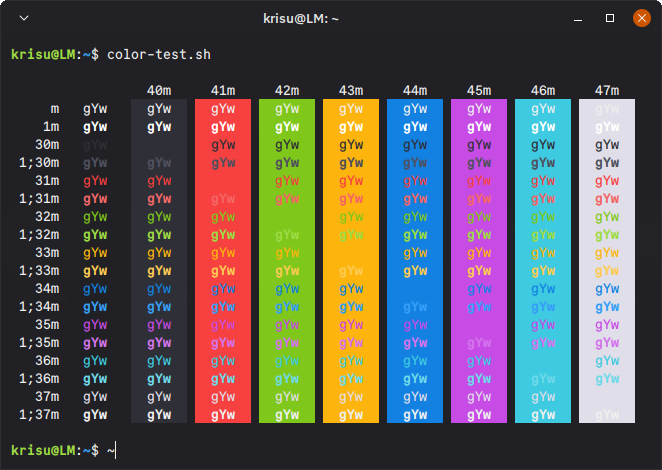
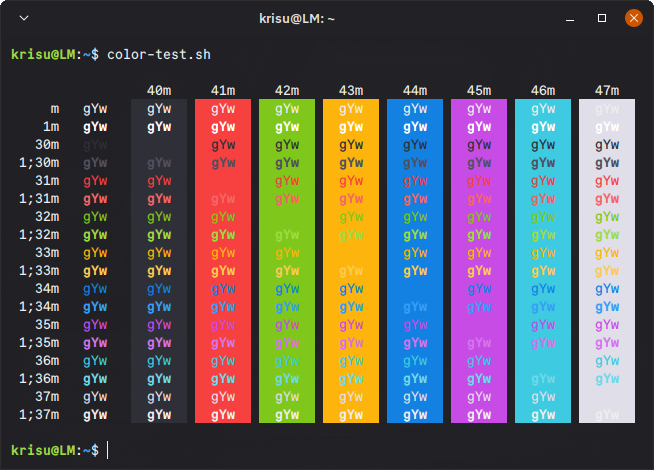
Add color codes

diff --git a/color-codes.md b/color-codes.md
@@ -1,0 +1,69 @@
+# Tashoku — Color codes
+
+## Default palette
+
+| Color name        | Hex         | RGB             | HSL             |
+| ----------------- | ----------- | --------------- | --------------- |
+| Black, regular    | #2f2f37     | 47, 47, 55      | 240, 8%, 20%    |
+| Black, bright     | #50505e     | 80, 80, 94      | 240, 8%, 34%    |
+| Red, regular      | #f74040     | 247, 64, 64     | 0, 92%, 61%     |
+| Red, bright       | #f46666     | 244, 102, 102   | 0, 87%, 68%     |
+| Green, regular    | #7fc71a     | 127, 199, 26    | 85, 77%, 44%    |
+| Green, bright     | #9cdb43     | 156, 219, 67    | 85, 68%, 56%    |
+| Yellow, regular   | #fdb50d     | 253, 181, 13    | 42, 98%, 52%    |
+| Yellow, bright    | #fdca53     | 253, 202, 83    | 42, 98%, 66%    |
+| Blue, regular     | #1281e2     | 18, 129, 226    | 208, 85%, 48%   |
+| Blue, bright      | #369ef8     | 54, 158, 248    | 208, 93%, 59%   |
+| Magenta, regular  | #c74ce6     | 199, 76, 230    | 288, 75%, 60%   |
+| Magenta, bright   | #d474ec     | 212, 116, 236   | 288, 76%, 69%   |
+| Cyan, regular     | #3ecae0     | 62, 202, 224    | 188, 72%, 56%   |
+| Cyan, bright      | #6dd9e9     | 109, 217, 233   | 188, 74%, 67%   |
+| White, regular    | #e0dee8     | 224, 222, 232   | 252, 18%, 89%   |
+| White, bright     | #eeeeee     | 238, 238, 238   | 0, 0%, 93%      |
+
+## Expanded palette
+
+| Color name        | Hex         | RGB             | HSL             |
+| ----------------- | ----------- | --------------- | --------------- |
+| Black, 400        | #2f2f37     | 47, 47, 55      | 240, 8%, 20%    |
+| Black, 300        | #50505e     | 80, 80, 94      | 240, 8%, 34%    |
+| Black, 200        | #7c7c86     | 124, 124, 134   | 240, 4%, 51%    |
+| Black, 100        | #a8a8af     | 168, 168, 175   | 240, 4%, 67%    |
+| Red, 400          | #f74040     | 247, 64, 64     | 0, 92%, 61%     |
+| Red, 300          | #f46666     | 244, 102, 102   | 0, 87%, 68%     |
+| Red, 200          | #f78c8c     | 247, 140, 140   | 0, 87%, 76%     |
+| Red, 100          | #fab3b3     | 250, 179, 179   | 0, 88%, 84%     |
+| Green, 400        | #7fc71a     | 127, 199, 26    | 85, 77%, 44%    |
+| Green, 300        | #9cdb43     | 156, 219, 67    | 85, 68%, 56%    |
+| Green, 200        | #b5e571     | 181, 229, 113   | 85, 69%, 67%    |
+| Green, 100        | #c8ea95     | 200, 234, 149   | 84, 67%, 75%    |
+| Yellow, 400       | #fdb50d     | 253, 181, 13    | 42, 98%, 52%    |
+| Yellow, 300       | #fdca53     | 253, 202, 83    | 42, 98%, 66%    |
+| Yellow, 200       | #fed576     | 254, 213, 118   | 42, 99%, 73%    |
+| Yellow, 100       | #fee195     | 254, 225, 149   | 43, 98%, 79%    |
+| Blue, 400         | #1281e2     | 18, 129, 226    | 208, 85%, 48%   |
+| Blue, 300         | #369ef8     | 54, 158, 248    | 208, 93%, 59%   |
+| Blue, 200         | #68b6fa     | 104, 182, 250   | 208, 94%, 69%   |
+| Blue, 100         | #9bcffc     | 155, 207, 252   | 208, 94%, 80%   |
+| Magenta, 400      | #c74ce6     | 199, 76, 230    | 288, 75%, 60%   |
+| Magenta, 300      | #d474ec     | 212, 116, 236   | 288, 76%, 69%   |
+| Magenta, 200      | #df97f1     | 223, 151, 241   | 288, 76%, 77%   |
+| Magenta, 100      | #eabaf6     | 234, 186, 246   | 288, 77%, 85%   |
+| Cyan, 400         | #3ecae0     | 62, 202, 224    | 188, 72%, 56%   |
+| Cyan, 300         | #6dd9e9     | 109, 217, 233   | 188, 74%, 67%   |
+| Cyan, 200         | #92e3ef     | 146, 227, 239   | 188, 74%, 75%   |
+| Cyan, 100         | #b6ecf4     | 182, 236, 244   | 188, 74%, 84%   |
+| White, 400        | #e0dee8     | 224, 222, 232   | 252, 18%, 89%   |
+| White, 300        | #eeeeee     | 238, 238, 238   | 0, 0%, 93%      |
+| White, 200        | #f7f7f8     | 247, 247, 248   | 240, 7%, 97%    |
+| White, 100        | #ffffff     | 255, 255, 255   | 0, 0%, 100%     |
+
+*400 = regular color, 300 = bright color*
+
+## Terminal element colors
+
+| Terminal element    | Hex         | RGB             | HSL             |
+| ------------------- | ----------- | --------------- | --------------- |
+| Background          | #222226     | 34, 34, 38      | 240, 6%, 14%    |
+| Foreground          | #eeeeee     | 238, 238, 238   | 0, 0%, 93%      |
+| Cursor              | #eeeeee     | 238, 238, 238   | 0, 0%, 93%      |
